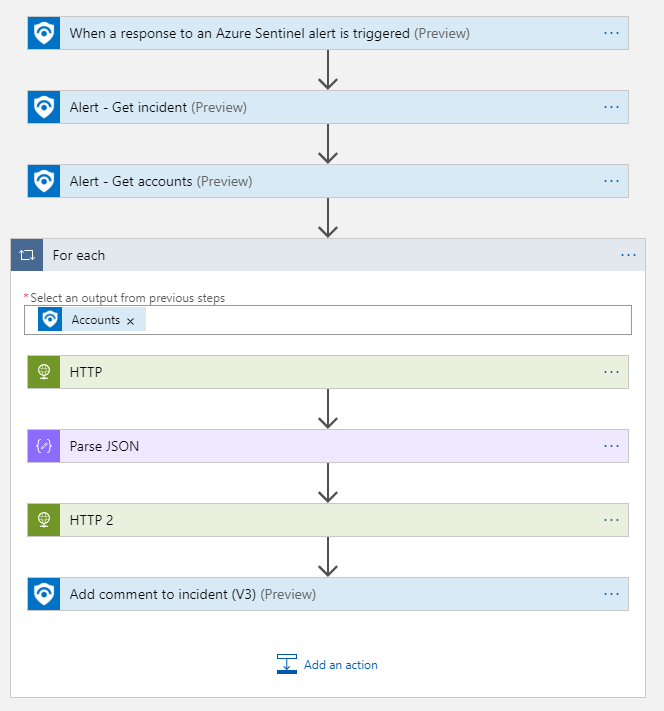
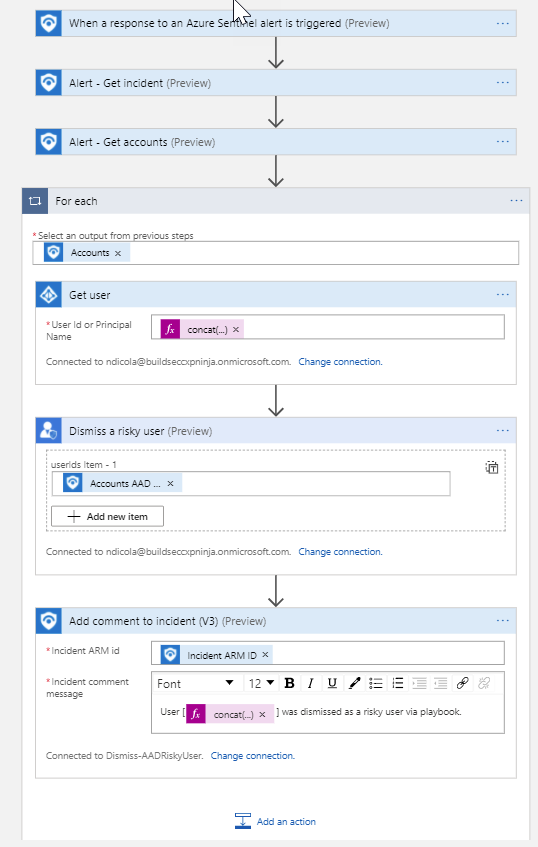
Update Dismiss-AADRiskyUser
changed to AAD and AAD IP connectors vs graph

diff --git a/Playbooks/Dismiss-AADRiskyUser/readme.md b/Playbooks/Dismiss-AADRiskyUser/readme.md
@@ -35,7 +35,7 @@ After deployment, you can run this playbook manually on an alert or attach it to
 
 ## Screenshots
 **Incident Trigger**<br>
-![Incident Trigger](./incident-trigger/images/designerScreenshotLight.png)<br>
+![Incident Trigger](./incident-trigger/images/Dismiss-AADRiskyUser_incident.png)<br>
 
 **Alert Trigger**<br>
 ![Alert Trigger](./alert-trigger/images/Dismiss-AADRiskyUser_alert.png)<br>
